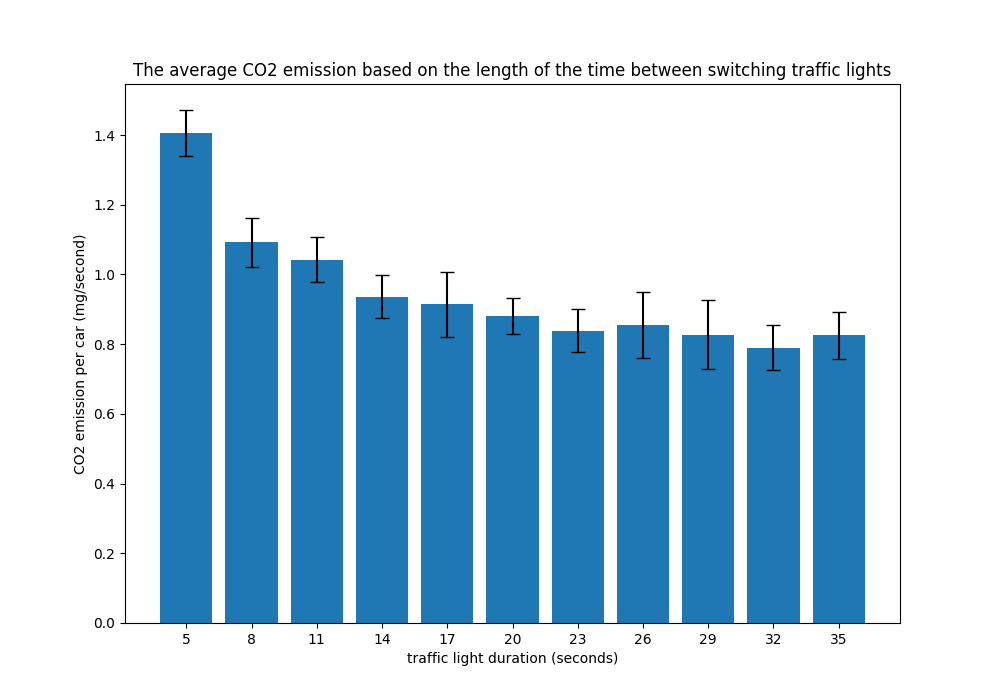
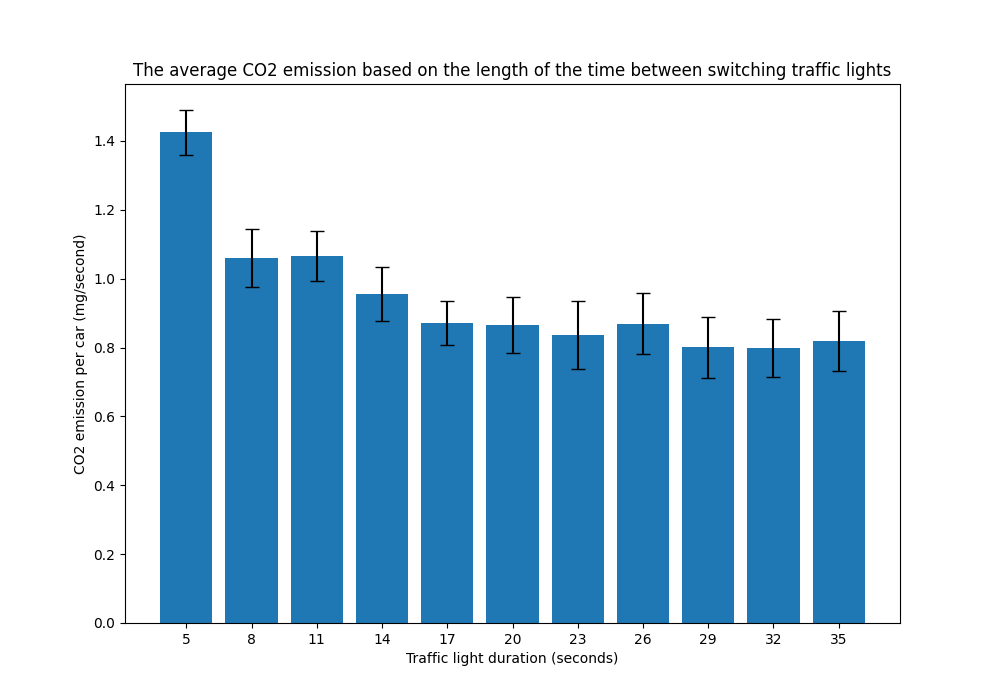
final images

diff --git a/experiment.py b/experiment.py
@@ -88,7 +88,7 @@ def experiment_lights(secs, reps, filename):
             trafficlight_duration, change_lightdur, secs, reps, filename
         ),
         "the length of the time between switching traffic lights",
-        "traffic light duration (seconds)",
+        "Traffic light duration (seconds)",
         filename,
     )
 
@@ -122,7 +122,7 @@ def experiment_traffic(secs, reps, filename):
         prob_car_per_sec,
         experiment(prob_car_per_step, change_traffic, secs, reps, filename),
         "how busy traffic is at the intersection.",
-        "expected number of cars per second (cars)",
+        "Expected number of cars per second (cars)",
         filename,
     )
 
